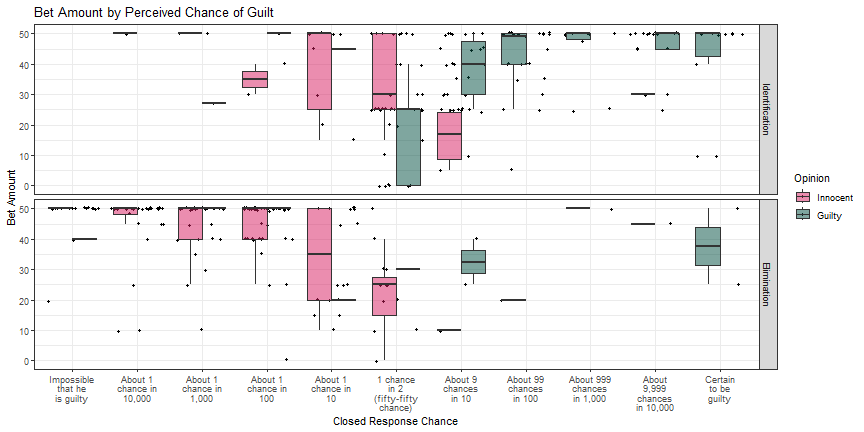
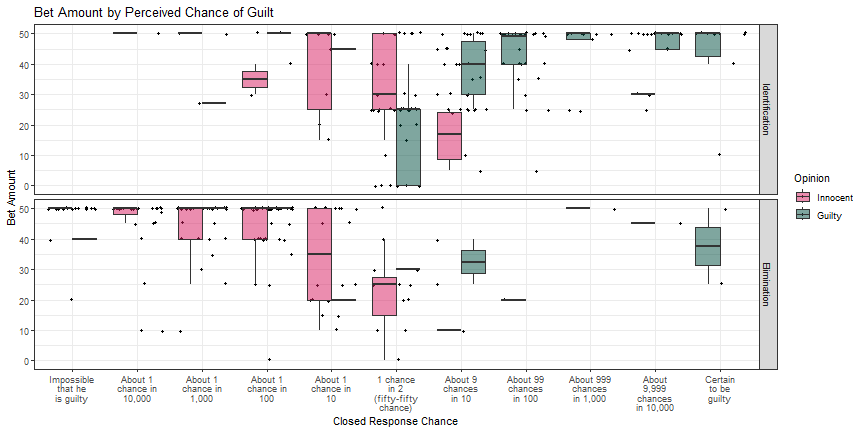
adding bet by conviction graph

diff --git a/Defense/slides.html b/Defense/slides.html
@@ -182,8 +182,8 @@ class: primary-blue
    - If the string is long enough, remove from current page of notes
    - Repeat
 
-<div id="htmlwidget-2626a3c80c579eda0da2" style="width:800px;height:500px;" class="grViz html-widget"></div>
-<script type="application/json" data-for="htmlwidget-2626a3c80c579eda0da2">{"x":{"diagram":"digraph {\n  graph [layout = dot, rankdir = TB]\n  \n  node [shape = rectangle]        \n  rec1 [label = \"Page 1\n the cat enjoys napping in the afternoon\"]\n  rec2 [label = \"Page 2\nWhen it is quiet, the cat enjoys napping\"]\n  rec3 [label =  \"LCS\n the cat enjoys napping\"]\n  rec4 [label = \"Page 2 Clean\nWhen it is quiet\"]\n  \n  # edge definitions with the node IDs\n  rec1 -> rec3\n  rec2 -> rec3\n  rec3 -> rec4\n  }","config":{"engine":"dot","options":null}},"evals":[],"jsHooks":[]}</script>
+<div id="htmlwidget-d1c707dea83078c63909" style="width:800px;height:500px;" class="grViz html-widget"></div>
+<script type="application/json" data-for="htmlwidget-d1c707dea83078c63909">{"x":{"diagram":"digraph {\n  graph [layout = dot, rankdir = TB]\n  \n  node [shape = rectangle]        \n  rec1 [label = \"Page 1\n the cat enjoys napping in the afternoon\"]\n  rec2 [label = \"Page 2\nWhen it is quiet, the cat enjoys napping\"]\n  rec3 [label =  \"LCS\n the cat enjoys napping\"]\n  rec4 [label = \"Page 2 Clean\nWhen it is quiet\"]\n  \n  # edge definitions with the node IDs\n  rec1 -> rec3\n  rec2 -> rec3\n  rec3 -> rec4\n  }","config":{"engine":"dot","options":null}},"evals":[],"jsHooks":[]}</script>
 
 ---
 
@@ -658,8 +658,8 @@ class: primary-blue
 
 class: primary-blue
 
-<div id="htmlwidget-77694e5e721c2999b887" style="width:800px;height:600px;" class="grViz html-widget"></div>
-<script type="application/json" data-for="htmlwidget-77694e5e721c2999b887">{"x":{"diagram":"digraph {\n  graph [layout = dot, rankdir = TB]\n  \n  node [shape = rectangle]        \n  rec1 [label = \"Calculate edit distance between first n characters in current notes and previous notes\"]\n  rec2 [label = \"Edit Distance < 16\"]\n  rec3 [label =  \"Edit Distance > 15\"]\n  rec4 [label = \"Remove first n characters\"]\n  rec5 [label = \"Compute Longest Common Substring\"]\n  rec6 [label = \"LCS > 1/3 Previous Note Length\"]\n  rec7 [label = \"LCS <= 1/3 Previous Note Length\"]\n  rec8 [label = \"Remove LCS\"]\n  rec9 [label = \"End\"]\n  rec10 [label = \"Calculate clean note length\"]\n  rec11 [label = \"Clean note length > Mean(clean note length) + 4*SD(clean note length)\"]\n  rec12 [label = \"Clean note length <= Mean(clean note length) + 4*SD(clean note length)\"]\n  \n  # edge definitions with the node IDs\n  rec1 -> rec2 \n  rec1 -> rec3\n  rec2 -> rec4\n  rec3 -> rec5\n  rec5 -> rec6\n  rec5 -> rec7\n  rec6 -> rec8\n  rec8 -> rec5\n  rec4 -> rec10\n  rec10 -> rec11\n  rec10 -> rec12\n  rec11 -> rec5\n  rec12 -> rec9\n  rec7 -> rec9\n  }","config":{"engine":"dot","options":null}},"evals":[],"jsHooks":[]}</script>
+<div id="htmlwidget-c8d38901a766c8ffe159" style="width:800px;height:600px;" class="grViz html-widget"></div>
+<script type="application/json" data-for="htmlwidget-c8d38901a766c8ffe159">{"x":{"diagram":"digraph {\n  graph [layout = dot, rankdir = TB]\n  \n  node [shape = rectangle]        \n  rec1 [label = \"Calculate edit distance between first n characters in current notes and previous notes\"]\n  rec2 [label = \"Edit Distance < 16\"]\n  rec3 [label =  \"Edit Distance > 15\"]\n  rec4 [label = \"Remove first n characters\"]\n  rec5 [label = \"Compute Longest Common Substring\"]\n  rec6 [label = \"LCS > 1/3 Previous Note Length\"]\n  rec7 [label = \"LCS <= 1/3 Previous Note Length\"]\n  rec8 [label = \"Remove LCS\"]\n  rec9 [label = \"End\"]\n  rec10 [label = \"Calculate clean note length\"]\n  rec11 [label = \"Clean note length > Mean(clean note length) + 4*SD(clean note length)\"]\n  rec12 [label = \"Clean note length <= Mean(clean note length) + 4*SD(clean note length)\"]\n  \n  # edge definitions with the node IDs\n  rec1 -> rec2 \n  rec1 -> rec3\n  rec2 -> rec4\n  rec3 -> rec5\n  rec5 -> rec6\n  rec5 -> rec7\n  rec6 -> rec8\n  rec8 -> rec5\n  rec4 -> rec10\n  rec10 -> rec11\n  rec10 -> rec12\n  rec11 -> rec5\n  rec12 -> rec9\n  rec7 -> rec9\n  }","config":{"engine":"dot","options":null}},"evals":[],"jsHooks":[]}</script>
 
 
 ---
@@ -669,8 +669,8 @@ class: primary-blue
 
 &lt;img src="images/pagecleaning.jpg" width="65%" /&gt;
 
-<div id="htmlwidget-6fced15ceeab701bb549" style="width:600px;height:400px;" class="grViz html-widget"></div>
-<script type="application/json" data-for="htmlwidget-6fced15ceeab701bb549">{"x":{"diagram":"digraph {\n  graph [layout = dot, rankdir = TB]\n  \n  node [shape = rectangle, style = filled]    \n  \n  node [ fillcolor= white]\n  rec3 [label =  \"Edit Distance > 15\"]\n  rec5 [label = \"Compute Longest Common Substring\"]\n  rec6 [label = \"LCS > 1/3 Previous Note Length\"]\n  rec7 [label = \"LCS <= 1/3 Previous Note Length\"]\n  rec8 [label = \"Remove LCS\"]\n  rec11 [label = \"Clean note length > Mean(clean note length) + 4*SD(clean note length)\"]\n  \n  node [fillcolor = pink]\n  rec1 [label = \"Calculate edit distance between first n characters in current notes and previous notes\n 0\"]\n  rec2 [label = \"Edit Distance < 16\"]\n  rec4 [label = \"Remove first n characters\"]\n  rec10 [label = \"Calculate clean note length\"]\n  rec12 [label = \"Clean note length <= Mean(clean note length) + 4*SD(clean note length)\"]\n  rec9 [label = \"End\"]\n  \n  # edge definitions with the node IDs\n  rec1 -> rec2 \n  rec1 -> rec3\n  rec2 -> rec4\n  rec3 -> rec5\n  rec5 -> rec6\n  rec5 -> rec7\n  rec6 -> rec8\n  rec8 -> rec5\n  rec4 -> rec10\n  rec10 -> rec11\n  rec10 -> rec12\n  rec11 -> rec5\n  rec12 -> rec9\n  rec7 -> rec9\n  }","config":{"engine":"dot","options":null}},"evals":[],"jsHooks":[]}</script>
+<div id="htmlwidget-73a5fcb162230ebb26a7" style="width:600px;height:400px;" class="grViz html-widget"></div>
+<script type="application/json" data-for="htmlwidget-73a5fcb162230ebb26a7">{"x":{"diagram":"digraph {\n  graph [layout = dot, rankdir = TB]\n  \n  node [shape = rectangle, style = filled]    \n  \n  node [ fillcolor= white]\n  rec3 [label =  \"Edit Distance > 15\"]\n  rec5 [label = \"Compute Longest Common Substring\"]\n  rec6 [label = \"LCS > 1/3 Previous Note Length\"]\n  rec7 [label = \"LCS <= 1/3 Previous Note Length\"]\n  rec8 [label = \"Remove LCS\"]\n  rec11 [label = \"Clean note length > Mean(clean note length) + 4*SD(clean note length)\"]\n  \n  node [fillcolor = pink]\n  rec1 [label = \"Calculate edit distance between first n characters in current notes and previous notes\n 0\"]\n  rec2 [label = \"Edit Distance < 16\"]\n  rec4 [label = \"Remove first n characters\"]\n  rec10 [label = \"Calculate clean note length\"]\n  rec12 [label = \"Clean note length <= Mean(clean note length) + 4*SD(clean note length)\"]\n  rec9 [label = \"End\"]\n  \n  # edge definitions with the node IDs\n  rec1 -> rec2 \n  rec1 -> rec3\n  rec2 -> rec4\n  rec3 -> rec5\n  rec5 -> rec6\n  rec5 -> rec7\n  rec6 -> rec8\n  rec8 -> rec5\n  rec4 -> rec10\n  rec10 -> rec11\n  rec10 -> rec12\n  rec11 -> rec5\n  rec12 -> rec9\n  rec7 -> rec9\n  }","config":{"engine":"dot","options":null}},"evals":[],"jsHooks":[]}</script>
 
 
 ---
@@ -681,8 +681,8 @@ Page 1 | Page 2 | LCS | Edit Distance | Result
 --------|---------|---------|---------
 The cat ran up the tree | The cat ran | The cat ran | 12 |  
 
-<div id="htmlwidget-8712c9b05427e3fd99cd" style="width:600px;height:500px;" class="grViz html-widget"></div>
-<script type="application/json" data-for="htmlwidget-8712c9b05427e3fd99cd">{"x":{"diagram":"digraph {\n  graph [layout = dot, rankdir = TB]\n  \n  node [shape = rectangle, style = filled]    \n  \n  node [ fillcolor= white]        \n  rec2 [label = \"Edit Distance < 6\"]\n  rec4 [label = \"Remove first n characters\"]\n  rec10 [label = \"Calculate clean note length\"]\n  rec11 [label = \"Clean note length > Mean(clean note length) + 4*SD(clean note length)\"]\n  rec12 [label = \"Clean note length <= Mean(clean note length) + 4*SD(clean note length)\"]\n  \n  node [ fillcolor= pink]\n  rec1 [label = \"Calculate edit distance between first n characters in current notes and previous notes\n 12\"]\n  rec3 [label =  \"Edit Distance > 5\"]\n  rec5 [label = \"Compute Longest Common Substring\nThe cat ran\"]\n  rec6 [label = \"LCS > 1/3 Previous Note Length\n11 > 8\"]\n  rec8 [label = \"Remove LCS\n\"]\n  rec7 [label = \"LCS <= 1/3 Previous Note Length\n 0 < 8\"]\n  rec9 [label = \"End\"]\n  \n  # edge definitions with the node IDs\n  rec1 -> rec2 \n  rec1 -> rec3\n  rec2 -> rec4\n  rec3 -> rec5\n  rec5 -> rec6\n  rec5 -> rec7\n  rec6 -> rec8\n  rec8 -> rec5\n  rec4 -> rec10\n  rec10 -> rec11\n  rec10 -> rec12\n  rec11 -> rec5\n  rec12 -> rec9\n  rec7 -> rec9\n  }","config":{"engine":"dot","options":null}},"evals":[],"jsHooks":[]}</script>
+<div id="htmlwidget-11bbbe9893955aa27aae" style="width:600px;height:500px;" class="grViz html-widget"></div>
+<script type="application/json" data-for="htmlwidget-11bbbe9893955aa27aae">{"x":{"diagram":"digraph {\n  graph [layout = dot, rankdir = TB]\n  \n  node [shape = rectangle, style = filled]    \n  \n  node [ fillcolor= white]        \n  rec2 [label = \"Edit Distance < 6\"]\n  rec4 [label = \"Remove first n characters\"]\n  rec10 [label = \"Calculate clean note length\"]\n  rec11 [label = \"Clean note length > Mean(clean note length) + 4*SD(clean note length)\"]\n  rec12 [label = \"Clean note length <= Mean(clean note length) + 4*SD(clean note length)\"]\n  \n  node [ fillcolor= pink]\n  rec1 [label = \"Calculate edit distance between first n characters in current notes and previous notes\n 12\"]\n  rec3 [label =  \"Edit Distance > 5\"]\n  rec5 [label = \"Compute Longest Common Substring\nThe cat ran\"]\n  rec6 [label = \"LCS > 1/3 Previous Note Length\n11 > 8\"]\n  rec8 [label = \"Remove LCS\n\"]\n  rec7 [label = \"LCS <= 1/3 Previous Note Length\n 0 < 8\"]\n  rec9 [label = \"End\"]\n  \n  # edge definitions with the node IDs\n  rec1 -> rec2 \n  rec1 -> rec3\n  rec2 -> rec4\n  rec3 -> rec5\n  rec5 -> rec6\n  rec5 -> rec7\n  rec6 -> rec8\n  rec8 -> rec5\n  rec4 -> rec10\n  rec10 -> rec11\n  rec10 -> rec12\n  rec11 -> rec5\n  rec12 -> rec9\n  rec7 -> rec9\n  }","config":{"engine":"dot","options":null}},"evals":[],"jsHooks":[]}</script>
 
 ---
 
@@ -692,8 +692,8 @@ Page 1 | Page 2 | LCS | Edit Distance | Result
 --------|---------|---------|---------
 The cat ran up the tree | &lt;mark&gt;The cat ran, chased by a&lt;/mark&gt; dog, up the tree | (The cat ran)(up the tree) | 11 | ,chased by a dog,
 
-<div id="htmlwidget-8ff1f659ca3698ab15fd" style="width:600px;height:500px;" class="grViz html-widget"></div>
-<script type="application/json" data-for="htmlwidget-8ff1f659ca3698ab15fd">{"x":{"diagram":"digraph {\n  graph [layout = dot, rankdir = TB]\n  \n  node [shape = rectangle, style = filled]    \n  \n  node [ fillcolor= white]        \n  rec2 [label = \"Edit Distance < 6\"]\n  rec4 [label = \"Remove first n characters\"]\n  rec10 [label = \"Calculate clean note length\"]\n  rec11 [label = \"Clean note length > Mean(clean note length) + 4*SD(clean note length)\"]\n  rec12 [label = \"Clean note length <= Mean(clean note length) + 4*SD(clean note length)\"]\n  \n  node [ fillcolor= pink]\n  rec1 [label = \"Calculate edit distance between first n characters in current notes and previous notes\n11\"]\n  rec3 [label =  \"Edit Distance > 5\"]\n  rec5 [label = \"Compute Longest Common Substring\nThe cat ran\nUp the tree\nc\"]\n  rec6 [label = \"LCS > 1/3 Previous Note Length\n11 > 8\n11 > 8\"]\n  rec8 [label = \"Remove LCS\nchased by a dog, up the tree\nchased by a dog\"]\n  rec7 [label = \"LCS <= 1/3 Previous Note Length\n1<8\"]\n  rec9 [label = \"End\nchased by a dog\"]\n  \n  # edge definitions with the node IDs\n  rec1 -> rec2 \n  rec1 -> rec3\n  rec2 -> rec4\n  rec3 -> rec5\n  rec5 -> rec6\n  rec5 -> rec7\n  rec6 -> rec8\n  rec8 -> rec5\n  rec4 -> rec10\n  rec10 -> rec11\n  rec10 -> rec12\n  rec11 -> rec5\n  rec12 -> rec9\n  rec7 -> rec9\n  }","config":{"engine":"dot","options":null}},"evals":[],"jsHooks":[]}</script>
+<div id="htmlwidget-abf02cab7f338631d347" style="width:600px;height:500px;" class="grViz html-widget"></div>
+<script type="application/json" data-for="htmlwidget-abf02cab7f338631d347">{"x":{"diagram":"digraph {\n  graph [layout = dot, rankdir = TB]\n  \n  node [shape = rectangle, style = filled]    \n  \n  node [ fillcolor= white]        \n  rec2 [label = \"Edit Distance < 6\"]\n  rec4 [label = \"Remove first n characters\"]\n  rec10 [label = \"Calculate clean note length\"]\n  rec11 [label = \"Clean note length > Mean(clean note length) + 4*SD(clean note length)\"]\n  rec12 [label = \"Clean note length <= Mean(clean note length) + 4*SD(clean note length)\"]\n  \n  node [ fillcolor= pink]\n  rec1 [label = \"Calculate edit distance between first n characters in current notes and previous notes\n11\"]\n  rec3 [label =  \"Edit Distance > 5\"]\n  rec5 [label = \"Compute Longest Common Substring\nThe cat ran\nUp the tree\nc\"]\n  rec6 [label = \"LCS > 1/3 Previous Note Length\n11 > 8\n11 > 8\"]\n  rec8 [label = \"Remove LCS\nchased by a dog, up the tree\nchased by a dog\"]\n  rec7 [label = \"LCS <= 1/3 Previous Note Length\n1<8\"]\n  rec9 [label = \"End\nchased by a dog\"]\n  \n  # edge definitions with the node IDs\n  rec1 -> rec2 \n  rec1 -> rec3\n  rec2 -> rec4\n  rec3 -> rec5\n  rec5 -> rec6\n  rec5 -> rec7\n  rec6 -> rec8\n  rec8 -> rec5\n  rec4 -> rec10\n  rec10 -> rec11\n  rec10 -> rec12\n  rec11 -> rec5\n  rec12 -> rec9\n  rec7 -> rec9\n  }","config":{"engine":"dot","options":null}},"evals":[],"jsHooks":[]}</script>
 
 ---
 
@@ -704,8 +704,8 @@ Page 1 | Page 2 | LCS | Edit Distance | Mean | SD | Result
 --------|---------|---------|---------
 The cat ran up the tree | &lt;mark&gt;The cat ran up the tree&lt;/mark&gt; The cat ran up the tree chased by a dog | (The cat ran up the tree) | 0 | 10 | 5 | chased by a dog
 
-<div id="htmlwidget-79c2c86a4c85983a0387" style="width:600px;height:500px;" class="grViz html-widget"></div>
-<script type="application/json" data-for="htmlwidget-79c2c86a4c85983a0387">{"x":{"diagram":"digraph {\n  graph [layout = dot, rankdir = TB]\n  \n  node [shape = rectangle, style = filled]    \n  \n  node [ fillcolor= white]    \n  rec3 [label =  \"Edit Distance > 5\"]\n  rec12 [label = \"Clean note length <= Mean(clean note length) + 4*SD(clean note length)\"]\n  \n  node [ fillcolor= pink]\n  rec1 [label = \"Calculate edit distance between first n characters in current notes and previous notes\n 0\"]\n  rec2 [label = \"Edit Distance < 6\n 0 < 6\"]\n  rec4 [label = \"Remove first n characters\n The cat ran up the tree chased by a dog\"]\n  rec10 [label = \"Calculate clean note length\n39\"]\n  rec11 [label = \"Clean note length > Mean(clean note length) + 4*SD(clean note length)\n39>30\"]\n  rec5 [label = \"Compute Longest Common Substring\nThe cat ran up the tree\nc\"]\n  rec6 [label = \"LCS > 1/3 Previous Note Length\n 23 > 8\"]\n  rec8 [label = \"Remove LCS\nchased by a dog\"]\n  rec7 [label = \"LCS <= 1/3 Previous Note Length\n1 < 8\"]\n  rec9 [label = \"End\nchased by a dog\"]\n  \n  # edge definitions with the node IDs\n  rec1 -> rec2 \n  rec1 -> rec3\n  rec2 -> rec4\n  rec3 -> rec5\n  rec5 -> rec6\n  rec5 -> rec7\n  rec6 -> rec8\n  rec8 -> rec5\n  rec4 -> rec10\n  rec10 -> rec11\n  rec10 -> rec12\n  rec11 -> rec5\n  rec12 -> rec9\n  rec7 -> rec9\n  }","config":{"engine":"dot","options":null}},"evals":[],"jsHooks":[]}</script>
+<div id="htmlwidget-57042bf1206ab5ff16bb" style="width:600px;height:500px;" class="grViz html-widget"></div>
+<script type="application/json" data-for="htmlwidget-57042bf1206ab5ff16bb">{"x":{"diagram":"digraph {\n  graph [layout = dot, rankdir = TB]\n  \n  node [shape = rectangle, style = filled]    \n  \n  node [ fillcolor= white]    \n  rec3 [label =  \"Edit Distance > 5\"]\n  rec12 [label = \"Clean note length <= Mean(clean note length) + 4*SD(clean note length)\"]\n  \n  node [ fillcolor= pink]\n  rec1 [label = \"Calculate edit distance between first n characters in current notes and previous notes\n 0\"]\n  rec2 [label = \"Edit Distance < 6\n 0 < 6\"]\n  rec4 [label = \"Remove first n characters\n The cat ran up the tree chased by a dog\"]\n  rec10 [label = \"Calculate clean note length\n39\"]\n  rec11 [label = \"Clean note length > Mean(clean note length) + 4*SD(clean note length)\n39>30\"]\n  rec5 [label = \"Compute Longest Common Substring\nThe cat ran up the tree\nc\"]\n  rec6 [label = \"LCS > 1/3 Previous Note Length\n 23 > 8\"]\n  rec8 [label = \"Remove LCS\nchased by a dog\"]\n  rec7 [label = \"LCS <= 1/3 Previous Note Length\n1 < 8\"]\n  rec9 [label = \"End\nchased by a dog\"]\n  \n  # edge definitions with the node IDs\n  rec1 -> rec2 \n  rec1 -> rec3\n  rec2 -> rec4\n  rec3 -> rec5\n  rec5 -> rec6\n  rec5 -> rec7\n  rec6 -> rec8\n  rec8 -> rec5\n  rec4 -> rec10\n  rec10 -> rec11\n  rec10 -> rec12\n  rec11 -> rec5\n  rec12 -> rec9\n  rec7 -> rec9\n  }","config":{"engine":"dot","options":null}},"evals":[],"jsHooks":[]}</script>
 
 ---
 
@@ -769,6 +769,14 @@ class: primary-blue
 .pull-right[
 &lt;img src="images/figuregrid2.jpg" width="87%"/&gt;
 ]
+
+---
+
+class: primary-blue
+
+## Scale Comparison
+
+![](slides_files/figure-html/unnamed-chunk-25-1.png)&lt;!-- --&gt;
     </textarea>
 <style data-target="print-only">@media screen {.remark-slide-container{display:block;}.remark-slide-scaler{box-shadow:none;}}</style>
 <script src="https://remarkjs.com/downloads/remark-latest.min.js"></script>
